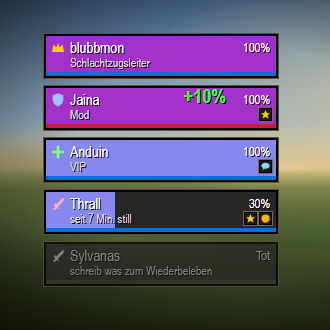
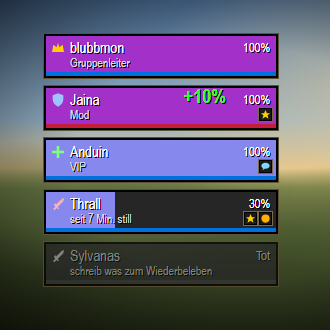
fix: Streamer im Gruppenfenster als Gruppenleiter bezeichnen

Changed region(s): [[0.2121, 0.1818, 0.4545, 0.2121]]

diff --git a/gruppe.html b/gruppe.html
@@ -60,7 +60,7 @@ const BUFF = {
   first: ['#7fd8ff', 'M12 4C6.5 4 3 7 3 10.5c0 2.2 1.4 4 3.6 5.1L5.5 20l4.6-3.1c.6.1 1.2.1 1.9.1 5.5 0 9-3 9-6.5S17.5 4 12 4z'],
   gold:  ['#ffb000', 'M12 3a9 9 0 1 0 0 18 9 9 0 0 0 0-18z'],
 };
-const LABEL = { broadcaster: 'Schlachtzugsleiter', moderator: 'Mod', vip: 'VIP', viewer: '' };
+const LABEL = { broadcaster: 'Gruppenleiter', moderator: 'Mod', vip: 'VIP', viewer: '' };
 
 const leader = { name: CHANNEL, role: 'broadcaster', last: Date.now() };
 let slots = []; // Chatter: { name, uid, role, sub, first, gold, last, pop }
